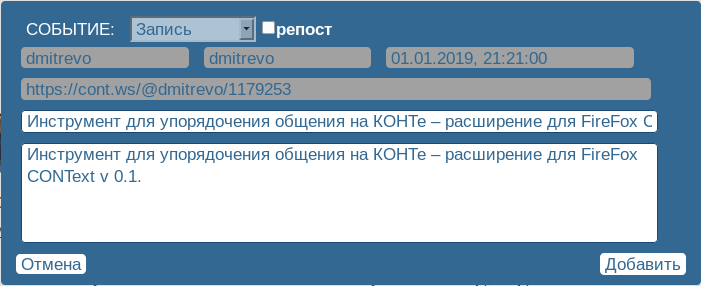
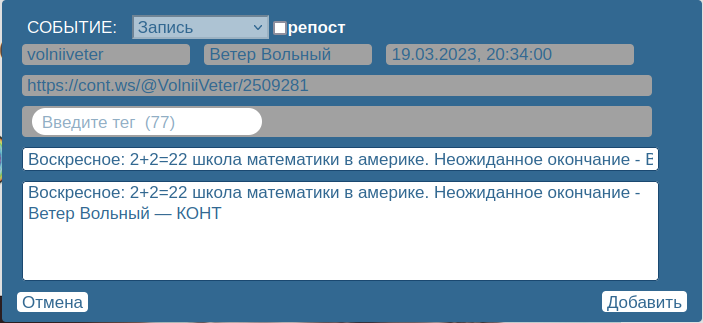
Version 0.3 README update

diff --git a/README.md b/README.md
@@ -1,22 +1,32 @@
 # CONText
-WebExtension for CONT.ws user management
+CONTExt reputation manager for CONT.ws social network
 
-Расширение предназначено для упорядочения общения с пользователями/авторами платформы CONT.ws. Для этого предоставляется возможность заносить любые ***потенциальные события*** (записи и комментарии автора) в его личную историю, сохраняемую локально, в встроенной БД браузера. Сформированное на основании этой истории общее мнение о пользователе можно зафиксировать, присвоив ему соответствующий ***статус*** из списка. В дальнейшем, любое упоминание пользователя будет сопровождаться цветовой маркировкой, соответствующей присвоенному статусу и ссылкой на перечень событий истории пользователя. Все эти функции осуществляются через специальное меню, добавляемое расширением к каждому упоминанию авторов на страницах cont.ws. 
+### Основная идея
 
-После установки расширения, на всех страницах cont.ws, кроме сервисных, у каждого упоминания любого автора, которое является ссылкой на его профиль, появляется меню. 
-Верхний пункт этого меню представляет собой логин пользователя и количество ассоциированных с ним событий (в скобках). Если событий более 0, то этот пункт становится активным, при его выборе открывается список событий данного пользователя.
-Если данное упоминание является потенциальным событием, т. е. ***имеет уникальную ссылку и метку времени*** (таковыми являются записи автора и его комментарии), то в меню добавляются дополнительно пункт добавления/редактирования событий, а также перечень доступных для установки статусов:
+При использовании социальных сетей, особенно в обсуждении острых тем, мы можем встретиться с огромным количеством самых разных людей. Их настолько много, что человек не может их запомнить. А порой понять смысл и цель чужого высказывания можно только обладая информацией о предыдущих поступках собеседника. Ведь человек — это, по-сути — сумма всех его предыдущих действий. Конечно, можно каждый раз обращаться к профилю пользователя, читать его последние публикации или комментарии и составлять представление о нем. Но это займет много времени, всех встречных собеседников так не проверишь, кроме того — нужное вам высказывание, характеризующее человека может оказаться погребенным под грудой других где-то в обсуждении многолетней давности. А может быть вовсе стерто — модераторами или самим автором. В результате, собеседник — хотя и имеет имя, аватар и профиль — в самом важном аспекте остается для вас анонимным. Вы видите плоскую картину — то, что пользователь написал прямо сейчас, но не видите глубины — что он делал ранее.
+
+Расширение CONTExt Reputation manager представляет собой концептуальное решение  данной проблемы. Вместо того, чтобы пытаться запомнить каждого встречного собеседника, вы можете зафиксировать его высказывание в истории пользователя. При следующей встрече с данным человеком расширение напомнит вам, что вы уже встречали данного пользователя, какие его высказывания показались вам важными, какие именно выводы вы сделали. При этом отбор высказываний и их характеристика осуществляется лично вами — никакая сторонняя манипуляция с целью искажения образа собеседника оказывается невозможна в принципе. Данные о событиях хранятся локально, во встроенной БД вашего браузера – поэтому недоступны никому, кроме вас, отредактировать или удалить сведения о том ли ином событии можете только вы. 
+
+### Техническая реализация
+
+Расширение позволяет сохранять в истории высказывания пользователей платформы CONT.ws, и вызывать получившееся досье на встречного пользователя в один клик. Для этого расширение ищет на открытой вами странице все ссылки на пользователей. Все ссылки подразделяются на ***события*** и ***упоминания***. 
+	***Событие (потенциальное)*** — это фрагмент, содержащий законченное высказывание пользователя, которое можно сохранить в истории высказываний. Главная черта события — это наличие уникальной ссылки. Также у события есть время создания и может быть заголовок.
+	***Упоминание*** — это просто любая ссылка на пользователя, не содержащая достаточно информации для создания события. Это может быть ссылка на публикацию — с заголовком и данными о времени, но с обрезанным или вовсе отсутствующим текстом, это может быть просто ссылка на пользователя в списке подписчиков или в дополнительных секциях, вроде наиболее популярных материалов. В отличии от потенциального события, в упоминании нет достаточных данных, чтобы его можно было добавить к истории.
+На практике, событиями являются только ***публикации*** и ***комментарии***. Расширение снабжает все потенциальные события меню — треугольничек перед именем пользователя. В публикации меню добавляется к верхней ссылке на пользователя, рядом с заголовком. Все остальные ссылки на пользователей — из шапки, ленты публикаций, боковых блоков и др — являются упоминаниями. Упоминания также могут снабжаться меню — но только, если для данного пользователя уже было сохранено хотя-бы одно событие. В этом случае  количество запомненных событий отображается с помощью цифры в правой части имени пользователя — как в событиях, так и в упоминаниях.
+Некоторые ссылки, например из страницы настроек, считаются служебными и полностью игнорируются.
+Верхний пункт этого меню представляет собой логин пользователя и количество ассоциированных с ним событий (в скобках). Если событий более 0, то этот пункт становится активным, при его выборе открывается досье данного пользователя. В меню, которое добавляется к потенциальным событиям также появляется дополнительно пункт
+добавления/редактирования событий, а также перечень доступных для установки статусов:
 
 ![вид меню потенциального события](https://github.com/dmiandr/context/blob/master/docs/img/menu_plain.png)
 
-Также, если у данного пользователя есть отличное от нуля количество событий, то справа от его имени появляется кружок с указанием количества событий.
+Для установки статуса достаточно просто выбрать соответствующий пункт меню.
 
 ### Добавление события
 При выборе пункта меню "Добавить к истории" открывается окно описания события:
 
 ![окно описания события - новое событие](https://github.com/dmiandr/context/blob/master/docs/img/addevent.png)
 
-Данные события считываются со страницы. Часть из них не редактируемые - тип события, автор, время, ссылка и т.д. Часть могут быть отредактированы пользователем - заголовок, основной текст, признак репоста. Кнопка "Добавить" сохраняет данные в бд и закрывает окно. После сохранения события, счетчик событий увеличивается на единицу, а имя автора, являющееся ссылкой, связанной с событием, выделяется графически - начинает мигать.
+Данные события считываются со страницы. Часть из них не редактируемые - тип события, автор, время, ссылка и т.д. Часть могут быть отредактированы пользователем - заголовок, основной текст, признак репоста, список тегов, характеризующих событие. Кнопка "Добавить" сохраняет данные в бд и закрывает окно. После сохранения события, счетчик событий увеличивается на единицу, а имя автора, являющееся ссылкой, связанной с событием, выделяется графически - начинает мигать.
 
 ### Редактирование/Удаление события
 
@@ -26,21 +36,44 @@ WebExtension for CONT.ws user management
 
 Данные события берутся из базы данных. Кнопка "Изменить" сохраняет отредактированное событие, кнопка "Удалить" удаляет его из базы и закрывает окно.
 
-### Просмотр списка событий
+### Добавление и редактирование тегов
 
-Если данному автору соответствует хотя-бы одно событие, то верхний пункт меню открывает отдельное окно с перечнем событий, соответствующих автору:
+В окне описания события под строкой с уникальным адресом события располагается редактор тегов. Теги — это текстовые метки, характеризующие событие. Программа не навязывает никаких конкретных меток, их необходимо придумывать самому. Рекомендуется использовать короткие текстовые строки, характеризующие событие с какой-то типовой точки зрения, чтобы идентичный тег можно было использовать для характеристики многих событий. Если в качестве тега используется длинная комплексная характеристика — подумайте, нельзя ли разделить ее на два разных тега. Более детальные рекомендации по формулировке тегов будут опубликованы позже.
+Технически, редактор тегов первоначально выглядит как поле с блеклой надписью «Введите тег» после чего в скобках указывается общее количество различных тегов, примененных в базе — в начале это 0:
 
-![перечень событий автора](https://github.com/dmiandr/context/blob/master/docs/img/hist_window.png)
+![событие с нулевым количество тегов](https://github.com/dmiandr/context/blob/master/docs/img/editevent.png)
 
- В верхней части окна расположен псевдоним и в скобках — логин автора. Ниже — редактируемое поле, в котором можно разместить детальное описание автора - итог всей истории наблюдений. Под текстовым полем - галочка "скрыть данного пользователя", отметив которую вы уберете комментарии данного пользователя из всех дискуссий - они будут не видны. В правом верхнем углу расположены кнопки "Закрыть", закрывающая все окно, "Обновить" обновляющая список в окне и "Сохранить" — кнопка, сохраняющая отредактированное текстовое описание автора и статус видимости комментариев пользователя.
- В основной части окна расположена таблица, содержащая список событий. В таблице есть три колонки: Время, Заголовок и Событие. Первая содержит дату и время события. Вторая колонка содержит заголовок события, одновременно являющийся ссылкой, открывающей окно описания события — таким образом уже существующее событие можно отредактировать или удалить. Третья колонка показывает тип события (Комментарий или Запись), которая одновременно является ссылкой на событие, страница открывается в новой вкладке основного окна.
+Для добавления тега достаточно вписать его в это поле и нажать Enter — после чего введенный тег превратится в серую плашку, а поле ввода тега сдвинется вправо-вниз. Уже введенные теги снабжаются кнопкой удаления — крестиком в правой части:
 
-### Экспорт/импорт данных
-Осуществляется со страницы настроек расширения. Кнопка "Экспорт" формирует файл с данными пользователя - списком событий, возможных статусов и пользователей с присвоенными статусами - и сохраняет его в выбранную директорию в формате json. Если вместо предложения сохранить файл открывается JsonViewer, то следует воспользоваться расположенной рядом ссылкой, осуществляющей экспорт в более ранних версиях FireFox.
-Импорт загружает файл с данными, при установке опции "очистить бд перед загрузкой" - удаляет все имеющиеся в БД данные, в противном случае - добавляет загружаемые события к уже имеющимся.
+![событие с одним добавленным тегом](https://github.com/dmiandr/context/blob/master/docs/img/editevent_tag.png)
 
-### Полный список событий
+Отредактировать тег нельзя, можно только удалить и ввести заново. При нажатии на кнопку «Вниз» (для Mozilla) выводится выпадающий список подсказывающий уже использовавшиеся в базе теги, по которому можно осуществлять контекстный поиск и выбор тега из списка уже использовавшихся. В Chrome этот список открывается автоматически. Эта функция предназначена для соблюдения идентичности написания тегов.
+
+### Просмотр досье пользователя
+
+Для каждого автора, которому соответствует хотя-бы одно событие, верхний пункт контекстного меню открывает окно, содержащее собранные сведения о пользователе:
+
+![досье](https://github.com/dmiandr/context/blob/master/docs/img/hist_window.png)
+
+ В верхней части окна расположены название социальной сети, псевдоним и в скобках — логин автора. Ниже — редактируемое поле, в котором можно разместить детальное описание автора - итог всей истории наблюдений. Под текстовым полем - галочка "скрыть данного пользователя", отметив которую вы уберете комментарии данного пользователя из всех дискуссий - они будут не видны. В правом верхнем углу расположены кнопки "Закрыть", закрывающая все окно, "Обновить" обновляющая список в окне и "Сохранить" — кнопка, сохраняющая отредактированное текстовое описание автора и статус видимости комментариев пользователя. (Обратите внимание, без нажатия «Сохранить» эти данные не будут сохранены). 
+Ниже расположено облако тегов, соответствующее событиям данного пользователя. При достаточном числе событий, это облако представляет собой «портрет» пользователя.
+Ниже расположена таблица, содержащая список событий. В таблице есть три колонки: Время, Заголовок и Событие. Первая содержит дату и время события. Вторая колонка содержит заголовок события, одновременно являющийся ссылкой, открывающей окно описания события — таким образом уже существующее событие можно отредактировать или удалить. Третья колонка показывает тип события (Комментарий или Запись), которая одновременно является ссылкой на событие, страница открывается в новой вкладке основного окна.
+
+### Параметры расширения
+
+Параметры открываются стандартным способом, через список активных расширений браузера. Страница параметров расширения разделена на две закладки, «Общие» и «Теги». Закладка «Общие» включает в себя функции Экспорта данных в выбранную директорию в формате json, импорта данных из такого файла. Опция «Удалить данные перед импортом новых»  по умолчанию не активна, поэтому загруженные события прибавляются к уже существующим, кроме тех случаев когда уникальные линки событий совпадают.
+
+Ниже расположена статистическая информация о данных в базе — количество событий, количество разных пользователей, текстовых описаний и данные последнего добавленного события (обратите внимания — последнего по времени создания, а не по времени добавления. Программа не запоминает, когда вы внесли событие в базу, только время создания самого события). 
+
 В нижней части страницы настроек расположен полный список всех авторов, которым были назначены события. Первая колонка содержит логин автора, она же является ссылкой, открывающей список событий этого конкретного автора. Вторая колонка - псевдоним автора, раскрашенный в соответствии с назначенным статусом. Последняя - общее количество событий у данного автора. Если автор отмечен как скрытый, то логин автора пишется наклонным шрифтом.
+
+На вкладке «Теги» расположено облако тегов всех событий, имеющихся в базе. В отличии от облака тегов индивидуального пользователя, это облако позволяет осуществлять поиск по базе событий, помеченных любым заданным тегом. Для этого каждый из тегов снабжен флажком. При выборе флажка — в нижней части страницы, под облаком, отображаются все события, помеченные данным тегом. Формат этого отображения следующий — отображается имя пользователя, на темном фоне, после чего подпунктом отображается таблица на светлом фоне со списком связанных с данным пользователем событий. Внешний вид приведен на рисунке:
+
+![облако тегов с результатами поиска](https://github.com/dmiandr/context/blob/master/docs/img/tagscloud.png)
+
+Как имя пользователя, так и заголовок комментария являются ссылками — и открывают соответствующие диалоги, позволяющие вносить изменения. 
+Обратите внимание, что при редактировании тегов события, облако тегов автоматически не перестраивается (чтобы не перестраивать его каждый раз когда вносится хоть какое-то изменение). Для обновления списка/количества тегов в облаке предназначена кнопка «Обновить» в левой части окна, над облаком. В правой части размещена кнопка очистки всех выделенных тегов, обнуляющая критерии отбора событий.
+
 
 Подробности, текущие объявления и обсуждения ведутся в блоге https://cont.ws/@dmitrevo
 
